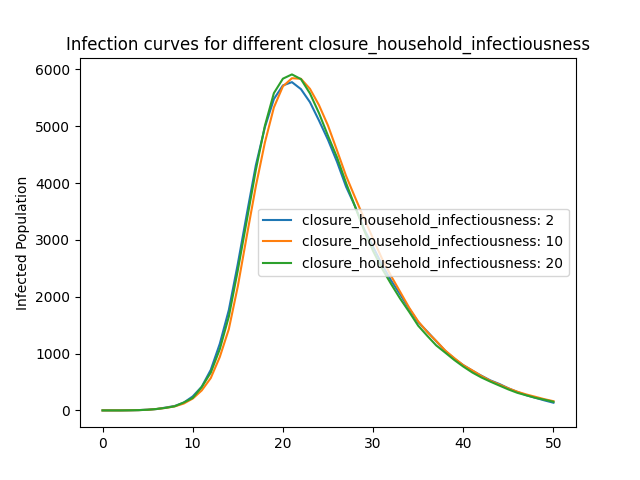
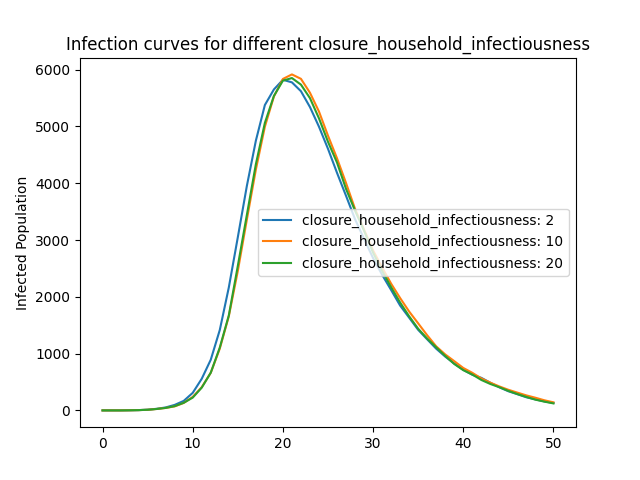
place closure happens with specific place type

diff --git a/pyEpiabm/pyEpiabm/property/spatial_foi.py b/pyEpiabm/pyEpiabm/property/spatial_foi.py
@@ -65,7 +65,9 @@ class SpatialInfection:
             if pyEpiabm.core.Parameters.instance().use_ages is True else 1
         closure_spatial = Parameters.instance().\
             intervention_params['place_closure']['closure_spatial_params'] \
-            if infector.microcell.closure_start_time is not None else 1
+            if infector.close_place(
+                Parameters.instance().intervention_params['place_closure'][
+                    'closure_place_type']) is True else 1
         return infector.infectiousness * age * closure_spatial
 
     @staticmethod
@@ -98,7 +100,9 @@ class SpatialInfection:
 
         closure_susc = Parameters.instance().\
             intervention_params['place_closure']['closure_spatial_params'] \
-            if infector.microcell.closure_start_time is not None else 1
+            if infector.close_place(
+                Parameters.instance().intervention_params['place_closure'][
+                    'closure_place_type']) is True else 1
 
         if infector.microcell.distancing_start_time is not None:
             if infector.distancing_enhanced is True:

diff --git a/pyEpiabm/pyEpiabm/tests/test_unit/test_core/test_person.py b/pyEpiabm/pyEpiabm/tests/test_unit/test_core/test_person.py
@@ -85,6 +85,20 @@ class TestPerson(TestPyEpiabm):
         self.assertEqual(len(self.person.places), 0)
         self.assertRaises(KeyError, self.person.remove_place, test_place_2)
 
+    def test_close_place(self):
+        closure_place_type = pe.Parameters.instance().intervention_params[
+            'place_closure']['closure_place_type']
+        # Not in place closure
+        self.assertIsNone(self.person.microcell.closure_start_time)
+        self.assertFalse(self.person.close_place(closure_place_type))
+        # Place closure time starts but the place is not in closure_place_type
+        self.person.microcell.closure_start_time = 1
+        self.person.place_types.append(pe.property.PlaceType.Workplace)
+        self.assertFalse(self.person.close_place(closure_place_type))
+        # Place closure time starts and the place is in closure_place_type
+        self.person.place_types.append(pe.property.PlaceType.PrimarySchool)
+        self.assertTrue(self.person.close_place(closure_place_type))
+
 
 if __name__ == '__main__':
     unittest.main()

diff --git a/pyEpiabm/pyEpiabm/tests/test_unit/test_property/test_spatial_foi.py b/pyEpiabm/pyEpiabm/tests/test_unit/test_property/test_spatial_foi.py
@@ -2,7 +2,7 @@ import unittest
 from unittest.mock import patch
 
 import pyEpiabm as pe
-from pyEpiabm.property import InfectionStatus, SpatialInfection
+from pyEpiabm.property import InfectionStatus, SpatialInfection, PlaceType
 from pyEpiabm.tests.test_unit.parameter_config_tests import TestPyEpiabm
 
 
@@ -91,7 +91,8 @@ class TestSpatialInfection(TestPyEpiabm):
                          result_isolating)
 
     def test_spatial_place_closure(self):
-        # Not place closure (closure_start_time = None)
+        # Update place type, not place closure (closure_start_time = None)
+        self.infector.place_types.append(PlaceType.PrimarySchool)
         result_susc = SpatialInfection.spatial_susc(
             self.cell, self.infector, self.infectee, self.time)
         result_inf = SpatialInfection.spatial_inf(

diff --git a/pyEpiabm/pyEpiabm/property/household_foi.py b/pyEpiabm/pyEpiabm/property/household_foi.py
@@ -33,9 +33,11 @@ class HouseholdInfection:
 
         """
         closure_inf = Parameters.instance().\
-            intervention_params['place_closure']['closure_household'
-                                                 '_infectiousness'] \
-            if infector.microcell.closure_start_time is not None else 1
+            intervention_params['place_closure'][
+                'closure_household_infectiousness'] \
+            if infector.close_place(
+                Parameters.instance().intervention_params['place_closure'][
+                    'closure_place_type']) is True else 1
         household_infectiousness = PersonalInfection.person_inf(
             infector, time) * closure_inf
         return household_infectiousness

diff --git a/pyEpiabm/pyEpiabm/tests/test_unit/test_property/test_place_foi.py b/pyEpiabm/pyEpiabm/tests/test_unit/test_property/test_place_foi.py
@@ -1,7 +1,7 @@
 import unittest
 
 import pyEpiabm as pe
-from pyEpiabm.property import PlaceInfection
+from pyEpiabm.property import PlaceInfection, PlaceType
 from pyEpiabm.tests.test_unit.parameter_config_tests import TestPyEpiabm
 
 
@@ -78,7 +78,8 @@ class TestPlaceInfection(TestPyEpiabm):
         self.assertEqual(result_closure, 0)
 
     def test_place_household_quarantine(self):
-        # Not in quarantine (quarantine_start_time = None)
+        # Update place type, not in quarantine (quarantine_start_time = None)
+        self.infector.place_types.append(PlaceType.PrimarySchool)
         result = PlaceInfection.place_foi(self.place, self.infector,
                                           self.infectee, self.time)
 

diff --git a/pyEpiabm/pyEpiabm/tests/test_unit/test_property/test_household_foi.py b/pyEpiabm/pyEpiabm/tests/test_unit/test_property/test_household_foi.py
@@ -1,7 +1,7 @@
 import unittest
 
 import pyEpiabm as pe
-from pyEpiabm.property import HouseholdInfection
+from pyEpiabm.property import HouseholdInfection, PlaceType
 from pyEpiabm.tests.test_unit.parameter_config_tests import TestPyEpiabm
 
 
@@ -61,7 +61,8 @@ class TestHouseholdInfection(TestPyEpiabm):
                          result_isolating)
 
     def test_house_place_closure(self):
-        # No place closure (closure_start_time = None)
+        # Update place type, no place closure (closure_start_time = None)
+        self.infector.place_types.append(PlaceType.PrimarySchool)
         result = HouseholdInfection.household_inf(
             self.infector, self.time)
 

diff --git a/pyEpiabm/pyEpiabm/property/place_foi.py b/pyEpiabm/pyEpiabm/property/place_foi.py
@@ -44,8 +44,9 @@ class PlaceInfection:
         except IndexError:  # For place types not in parameters
             num_groups = 1
         # Use group-wise capacity not max_capacity once implemented
-        place_inf = 0 if infector.microcell. \
-            closure_start_time is not None else \
+        place_inf = 0 if infector.close_place(
+                Parameters.instance().intervention_params['place_closure'][
+                    'closure_place_type']) is True else \
             (transmission / num_groups
                 * PersonalInfection.person_inf(infector, time))
         return place_inf

diff --git a/pyEpiabm/pyEpiabm/tests/test_unit/test_sweep/test_intervention_sweep.py b/pyEpiabm/pyEpiabm/tests/test_unit/test_sweep/test_intervention_sweep.py
@@ -29,7 +29,7 @@ class TestInterventionSweep(TestPyEpiabm):
         self.assertEqual(len(self.interventionsweep.
                              intervention_params['case_isolation']), 8)
         self.assertEqual(len(self.interventionsweep.
-                             intervention_params['place_closure']), 8)
+                             intervention_params['place_closure']), 9)
         self.assertEqual(len(self.interventionsweep.
                              intervention_params['household_quarantine']), 10)
         self.assertEqual(len(self.interventionsweep.

diff --git a/pyEpiabm/pyEpiabm/core/person.py b/pyEpiabm/pyEpiabm/core/person.py
@@ -167,3 +167,10 @@ class Person:
             ind = place_list.index(place)
             self.places.pop(ind)
             self.place_types.remove(place.place_type)
+
+    def close_place(self, closure_place_type):
+        if self.microcell.closure_start_time is not None:
+            for place_type in self.place_types:
+                if place_type.value in closure_place_type:
+                    return True
+        return False
